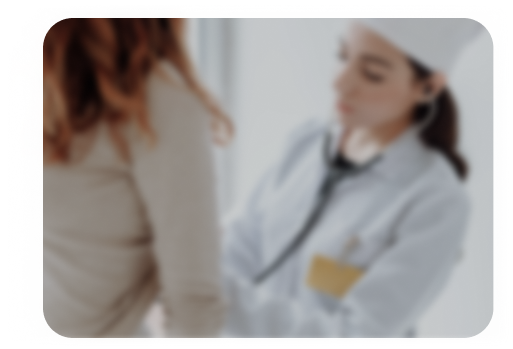
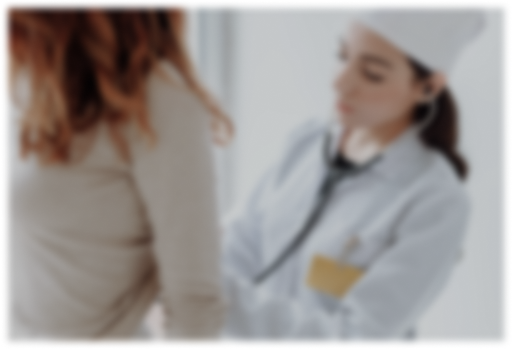
educ block
educ block

Changed region(s): [[0.0, 0.0, 0.9981, 1.0]]

diff --git a/css/style.css b/css/style.css
@@ -273,8 +273,62 @@ header .head-elements a:hover {
 
 .secondary-education .educ-block {
 	display: block;
+	box-shadow: 16px 16px 65px rgba(31, 2, 89, 0.06);
+	border-radius: 30px;
+	position: relative;
+	padding: 32px 28px 26px;
+	height: 320px;
+	margin-bottom: 20px;
+	background: linear-gradient(0deg, rgba(0, 0, 0, 0.2), rgba(0, 0, 0, 0.2));
 }
-
+.secondary-education .educ-block:hover {
+	box-shadow: 16px 16px 65px rgba(31, 2, 89, 0.1);
+}
+.secondary-education .educ-block .educ-img img {
+	position: absolute;
+	left: 0;
+	top: 0;
+	width: 100%;
+	height: 320px;
+	object-fit: cover;
+	
+	/* filter: blur(8px); */
+	border-radius: 30px;
+}
+.secondary-education .educ-block .educ-title {
+	position: absolute;
+	left: 28px;
+	top: 32px;
+}
+.secondary-education .educ-block .educ-title h3 {
+	width: 200px;
+	font-size: 26px;
+	line-height: 26px;
+	color: #FFFFFF;
+}
+.secondary-education .educ-block .educ-info {
+	display: flex;
+	flex-wrap: wrap;
+	align-items: center;
+	position: absolute;
+	left: 28px;
+	bottom: 26px;
+}
+.secondary-education .educ-block .educ-info span {
+	display: inline-block;
+	font-size: 14px;
+	line-height: 20px;
+	color: #363636;
+	background: #FFFFFF;
+	border-radius: 100px;
+	padding: 6px 13px;
+	margin: 10px 10px 0 0;
+}
+.secondary-education .educ-block .educ-icon {
+	position: absolute;
+	right: 25px;
+	bottom: 26px;
+}
 
 
 
